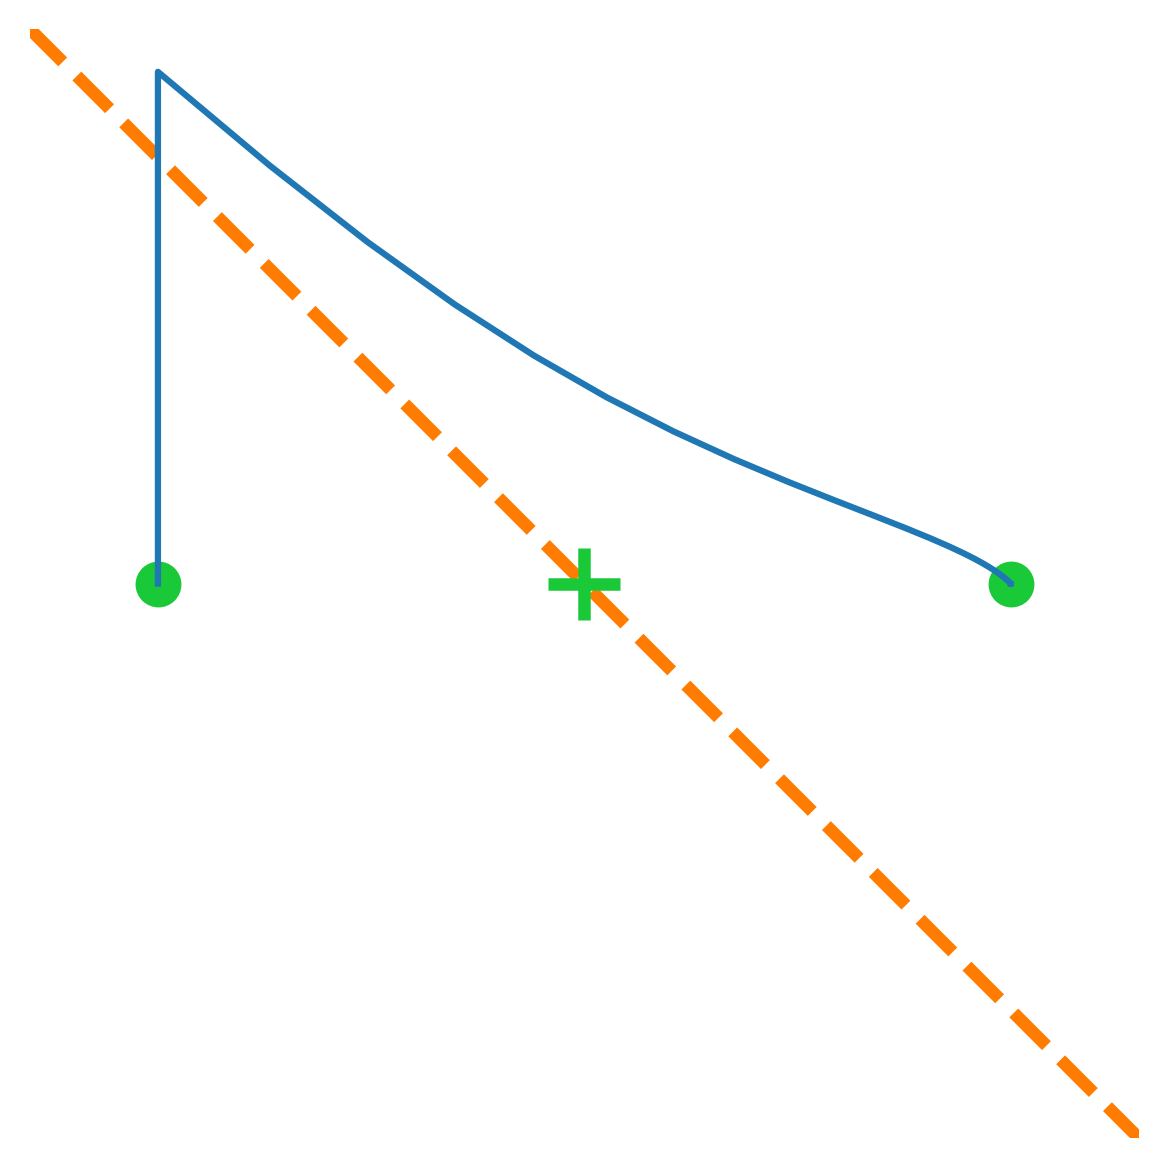
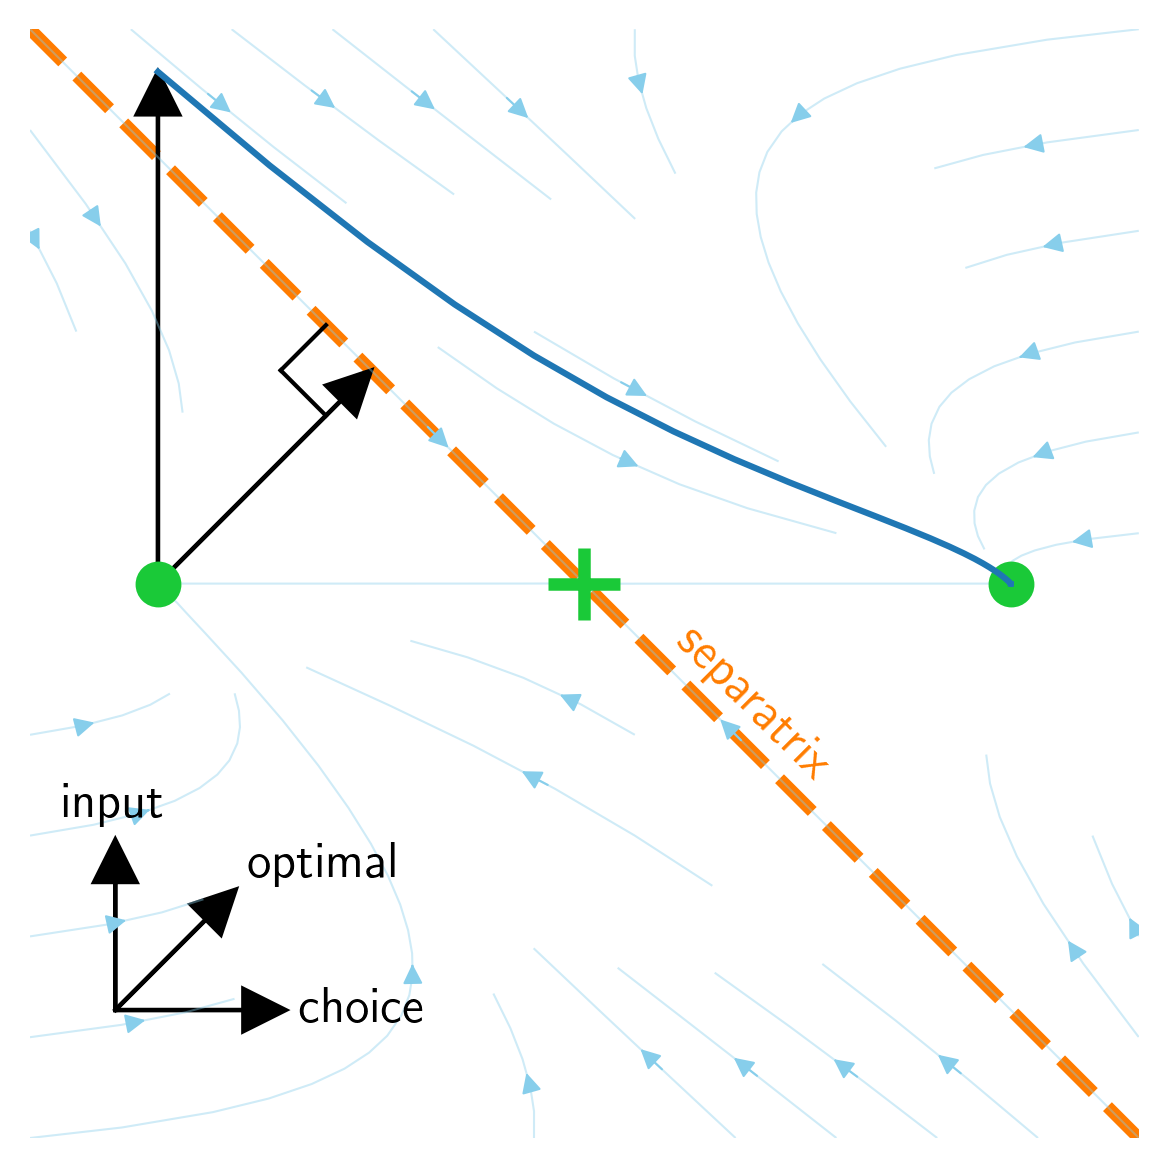
making figures

diff --git a/cartoon_plots.py b/cartoon_plots.py
@@ -13,6 +13,31 @@ from functools import partial
 import operator
 colors = sns.color_palette("bright")
 
+
+plt.rcParams['text.usetex'] = True
+plt.rcParams["font.family"] = "sans-serif"
+plt.rcParams["mathtext.fontset"] = "dejavuserif"
+plt.rcParams['text.latex.preamble'] = r'\usepackage{amsmath}'
+
+def plot_arrows(ax, arrow_length = 0.5, arrow_start = [-1, -1.3], fontsize=12):
+    # Vertical arrow
+    ax.arrow(arrow_start[0], arrow_start[1], 0, arrow_length,
+             head_width=0.1, head_length=0.1, fc='k', ec='k', )
+    ax.text(arrow_start[0], arrow_start[1] + arrow_length + 0.13, 'input', 
+            ha='center', va='bottom', fontsize=fontsize)
+
+    # Diagonal arrow
+    ax.arrow(arrow_start[0], arrow_start[1], arrow_length / np.sqrt(2), arrow_length / np.sqrt(2),
+             head_width=0.1, head_length=0.1, fc='k', ec='k')
+    ax.text(arrow_start[0] + arrow_length / np.sqrt(2) + 0.1,
+            arrow_start[1] + arrow_length / np.sqrt(2) + 0.1,
+            'optimal', fontsize=fontsize)
+    # Horizontal arrow
+    ax.arrow(arrow_start[0], arrow_start[1], arrow_length, 0,
+             head_width=0.1, head_length=0.1, fc='k', ec='k')
+    ax.text(arrow_start[0] + arrow_length + 0.13, arrow_start[1], 'choice', 
+            ha='left', va='center', fontsize=fontsize)
+
 def remove_frame(ax):
     """
     Removes the frame and ticks from a matplotlib axis.
@@ -170,9 +195,28 @@ def cartoon_traj_and_inputs(dynamics_function,ax,T=20,steps=100):
         traj,
         odeint(lambda t, x: dynamics_function(x), traj[-1], time_points).detach().cpu()
     ])
-    ax.plot(traj[..., 0], traj[..., 1])
+    ax.arrow(traj[0, 0], traj[0, 1], traj[1, 0] - traj[0, 0], traj[1, 1] - traj[0, 1],
+                 head_width=0.1, head_length=0.1, fc='k', ec='k', length_includes_head=True)
+    ax.plot(traj[2:, 0], traj[2:, 1])
+    ax.arrow(-1, 0, 0.5, 0.5, head_width=0.1, head_length=0.1, fc='k', ec='k', length_includes_head=True)
+    # Add a small square to show 90 degree angle
+    # Add 90-degree angle marker at (-0.5, 0.5)
+    size = 0.15  # size of the angle marker
+    longer_edge = np.sqrt(2*size**2)
+    shorter_edge = np.sqrt(0.5*size**2)
+    corner = (-0.5-longer_edge, 0.5)
+    ax.plot(
+        [corner[0], corner[0] + shorter_edge],
+        [corner[1], corner[1] + shorter_edge],
+        color="k", linewidth=1, zorder=5,
+    )
+    ax.plot(
+        [corner[0], corner[0] + shorter_edge],
+        [corner[1], corner[1] - shorter_edge],
+        color="k", linewidth=1, zorder=5,
+    )
 
-def base_cartoon_plot(ax,x_limits=(-1.3,1.3),y_limits=(-1.3,1.3)):
+def base_cartoon_plot(ax,x_limits=(-1.3,1.3),y_limits=(-1.3,1.3),fontsize=12):
     # Check if the axis is 3D
     is_3d = hasattr(ax, 'zaxis')
     
@@ -228,6 +272,18 @@ def base_cartoon_plot(ax,x_limits=(-1.3,1.3),y_limits=(-1.3,1.3)):
         ax.plot(x, y, z, **plot_args)
     else:
         ax.plot(x, y, **plot_args)
+    # Add text label for the separatrix
+    if is_3d:
+        # For 3D plot, position text at midpoint of line
+        mid_idx = int(len(x) * 0.65)
+        ax.text(x[mid_idx], y[mid_idx], 0, 'separatrix',
+                ha='center', va='center', rotation=-45, color=colors[1], fontsize=fontsize)
+    else:
+        # For 2D plot, position text at midpoint of line
+        mid_idx = int(len(x) * 0.65)
+        ax.text(x[mid_idx], y[mid_idx]-0.08, 'separatrix',
+                ha='center', va='bottom', rotation=-45, color=colors[1], fontsize=fontsize)
+        
         
     ax.set_xlim(*x_limits)
     ax.set_ylim(*y_limits)
@@ -257,9 +313,10 @@ def plot_3d_cartoon(ax, x_limits=(-1.3,1.3), y_limits=(-1.3,1.3), z_limits=(0,1.
 
 if __name__ == '__main__':
     fig, ax = plt.subplots()
-    # plot_flow_streamlines(affine_bistable2D, ax, x_limits=(-1.3, 1.3), y_limits=(-1.3, 1.3), resolution=50,
-    #                       density=0.25, color='k', linewidth=0.5, alpha=0.4)
+    plot_flow_streamlines(affine_bistable2D, ax, x_limits=(-1.3, 1.3), y_limits=(-1.3, 1.3), resolution=50,
+                          density=0.4, color='skyblue', linewidth=0.5, alpha=0.4)
     base_cartoon_plot(ax)
+    plot_arrows(ax,arrow_length=0.3, arrow_start=[-1.1,-1])
     cartoon_traj_and_inputs(affine_bistable2D,ax)
     remove_frame(ax)
     # plt.show()
@@ -279,19 +336,22 @@ if __name__ == '__main__':
 
     # # Create 2D plot with kinetic energy contours
     # fig, ax = plt.subplots(figsize=(4,4))
-    # plot_kinetic_energy_contour(affine_bistable2D, ax, x_limits=(-2, 2), y_limits=(-2, 2), resolution=200, levels=15)
+    # kinetic_energy_function = dynamics_to_kinetic_energy(affine_bistable2D)
+    # X, Y, kinetic_energy_vals = evaluate_on_grid(kinetic_energy_function, x_limits=(-2, 2),y_limits=(-2, 2), resolution=200)
+    # ax.contourf(X, Y, np.log(kinetic_energy_vals+0.5), levels=15, cmap='Blues_r')
+    # # plot_kinetic_energy_contour(affine_bistable2D, ax, x_limits=(-2, 2), y_limits=(-2, 2), resolution=200, levels=15)
     # base_cartoon_plot(ax)
     # remove_frame(ax)
-    
+    #
     # # Save 2D figure
     # fig.savefig('plots_for_publication/cartoon_2d_kinetic_energy_contour.png', bbox_inches='tight', dpi=300)
-
-    # Create 2D plot with kinetic energy contours
-    fig, ax = plt.subplots(figsize=(4,4))
-    X,Y,separatrix_function = evaluate_on_grid(bistable_affine_separatrix_function, x_limits=(-2, 2), y_limits=(-2, 2), resolution=200)
-    ax.contourf(X, Y, (separatrix_function)**0.5, levels=15, cmap='Blues_r')
-    base_cartoon_plot(ax)
-    remove_frame(ax)
-    
-    # Save 2D figure
-    fig.savefig('plots_for_publication/cartoon_2d_separatrix_contour.png', bbox_inches='tight', dpi=300)
+    #
+    # # Create 2D plot with kinetic energy contours
+    # fig, ax = plt.subplots(figsize=(4,4))
+    # X,Y,separatrix_function = evaluate_on_grid(bistable_affine_separatrix_function, x_limits=(-2, 2), y_limits=(-2, 2), resolution=200)
+    # ax.contourf(X, Y, np.log(separatrix_function+0.25), levels=10, cmap='Blues_r')
+    # base_cartoon_plot(ax)
+    # remove_frame(ax)
+    #
+    # # Save 2D figure
+    # fig.savefig('plots_for_publication/cartoon_2d_separatrix_contour.png', bbox_inches='tight', dpi=300)
